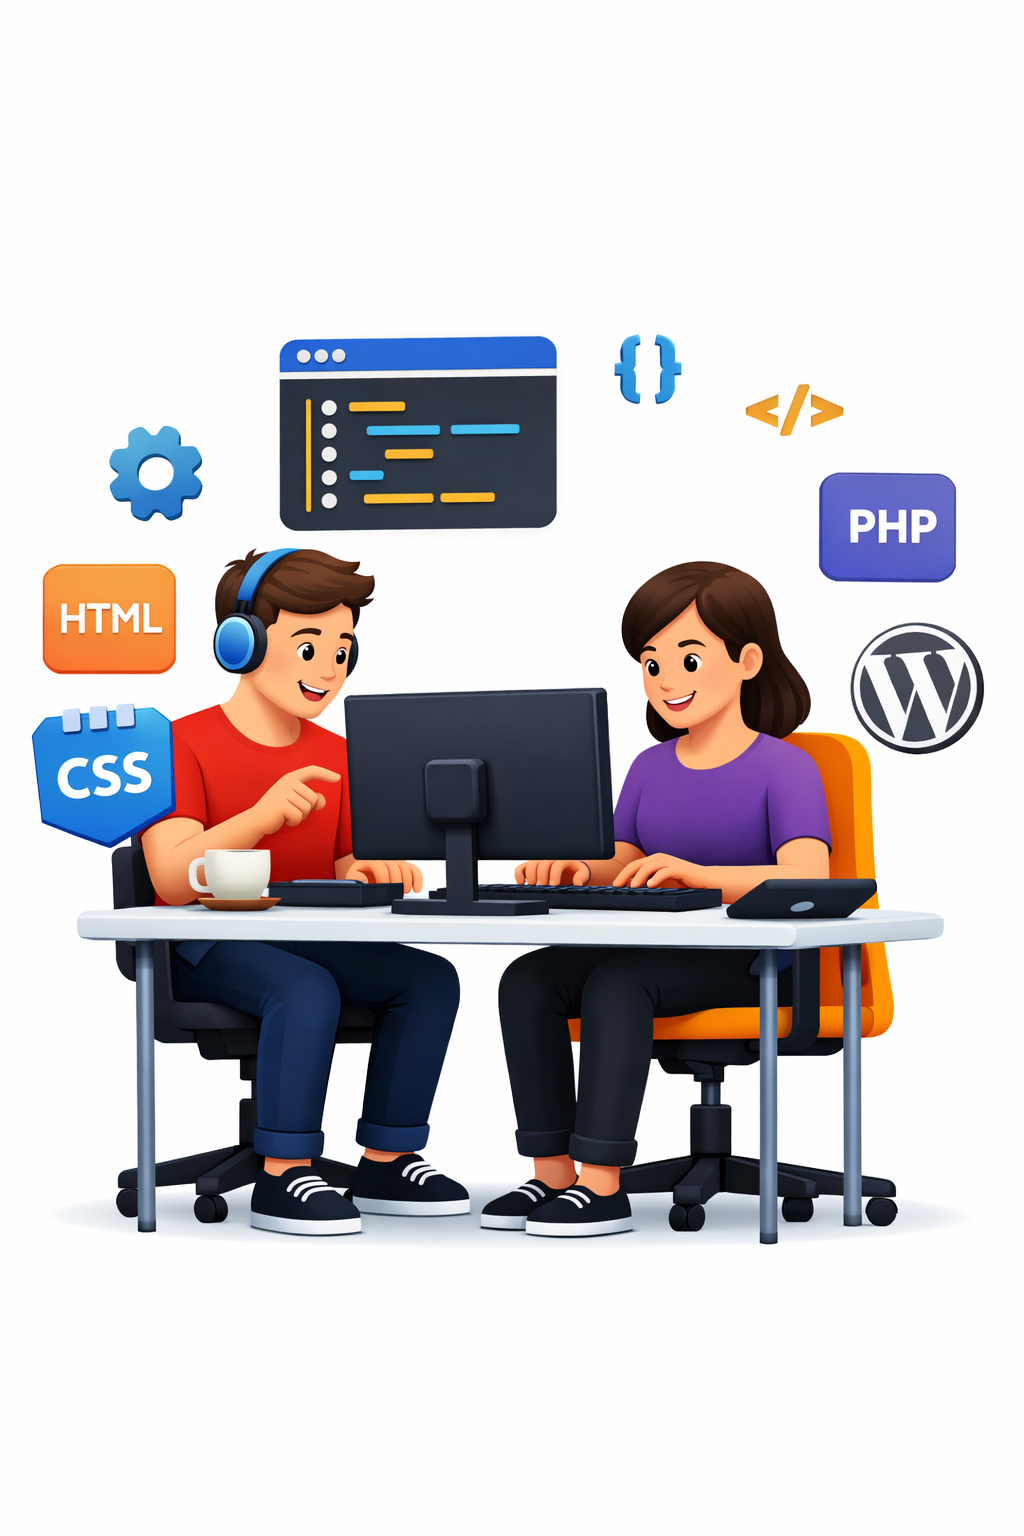
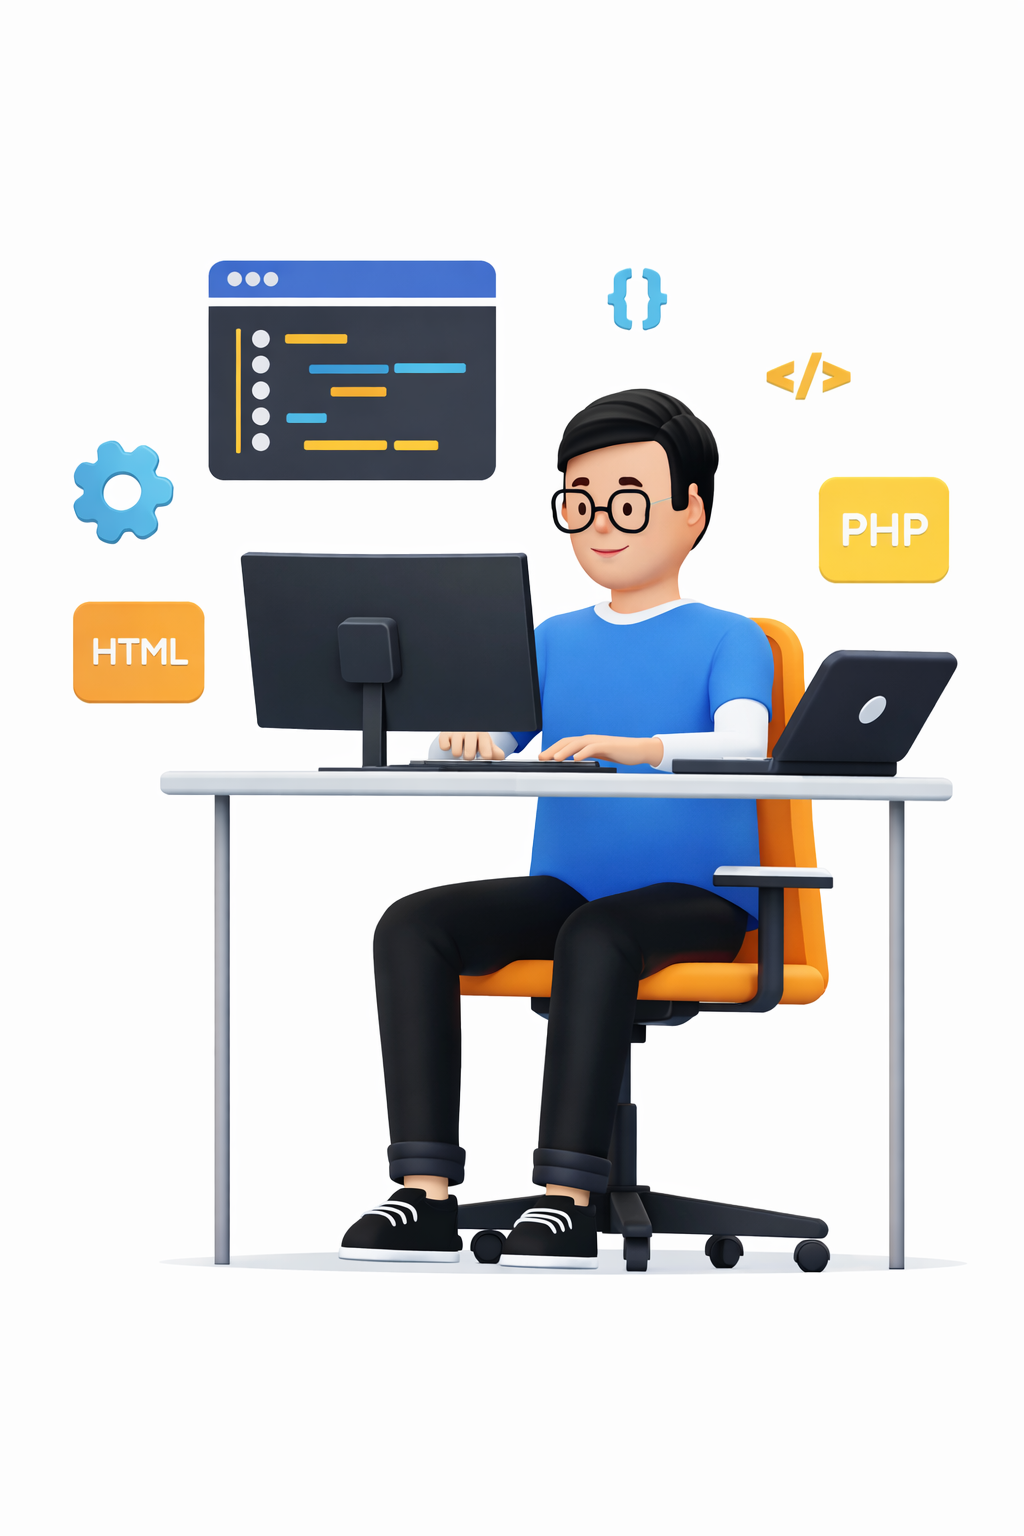
CSS style updated

diff --git a/style.css b/style.css
@@ -6,15 +6,15 @@
 }
 
 .container{
-    /* background-color: #eab308; */
     background-color: white;
     height: 100vh;
+    display: flex;
+    flex-direction: column;
 }
 
-.container-page {
+ .container-page {
     display: flex;
-    justify-content: center;
-    /* border: 2px solid black; */
+    justify-content: space-evenly;  
 }
 
 .container-head{
@@ -36,14 +36,13 @@
 .container-img{
     display: flex;
     height: 400px;
-    width: 400px;
-    /* border: 2px solid black; */
+    width: 400px;  
 }
 
 .container-form{
     display: flex;
     padding: 20px 80px;
-    /* border: 2px solid black; */
+    
 }
 
 .form-user{
@@ -228,4 +227,4 @@ span{
         flex-direction: column;
         padding: 10px;
     }
-}
+} 
